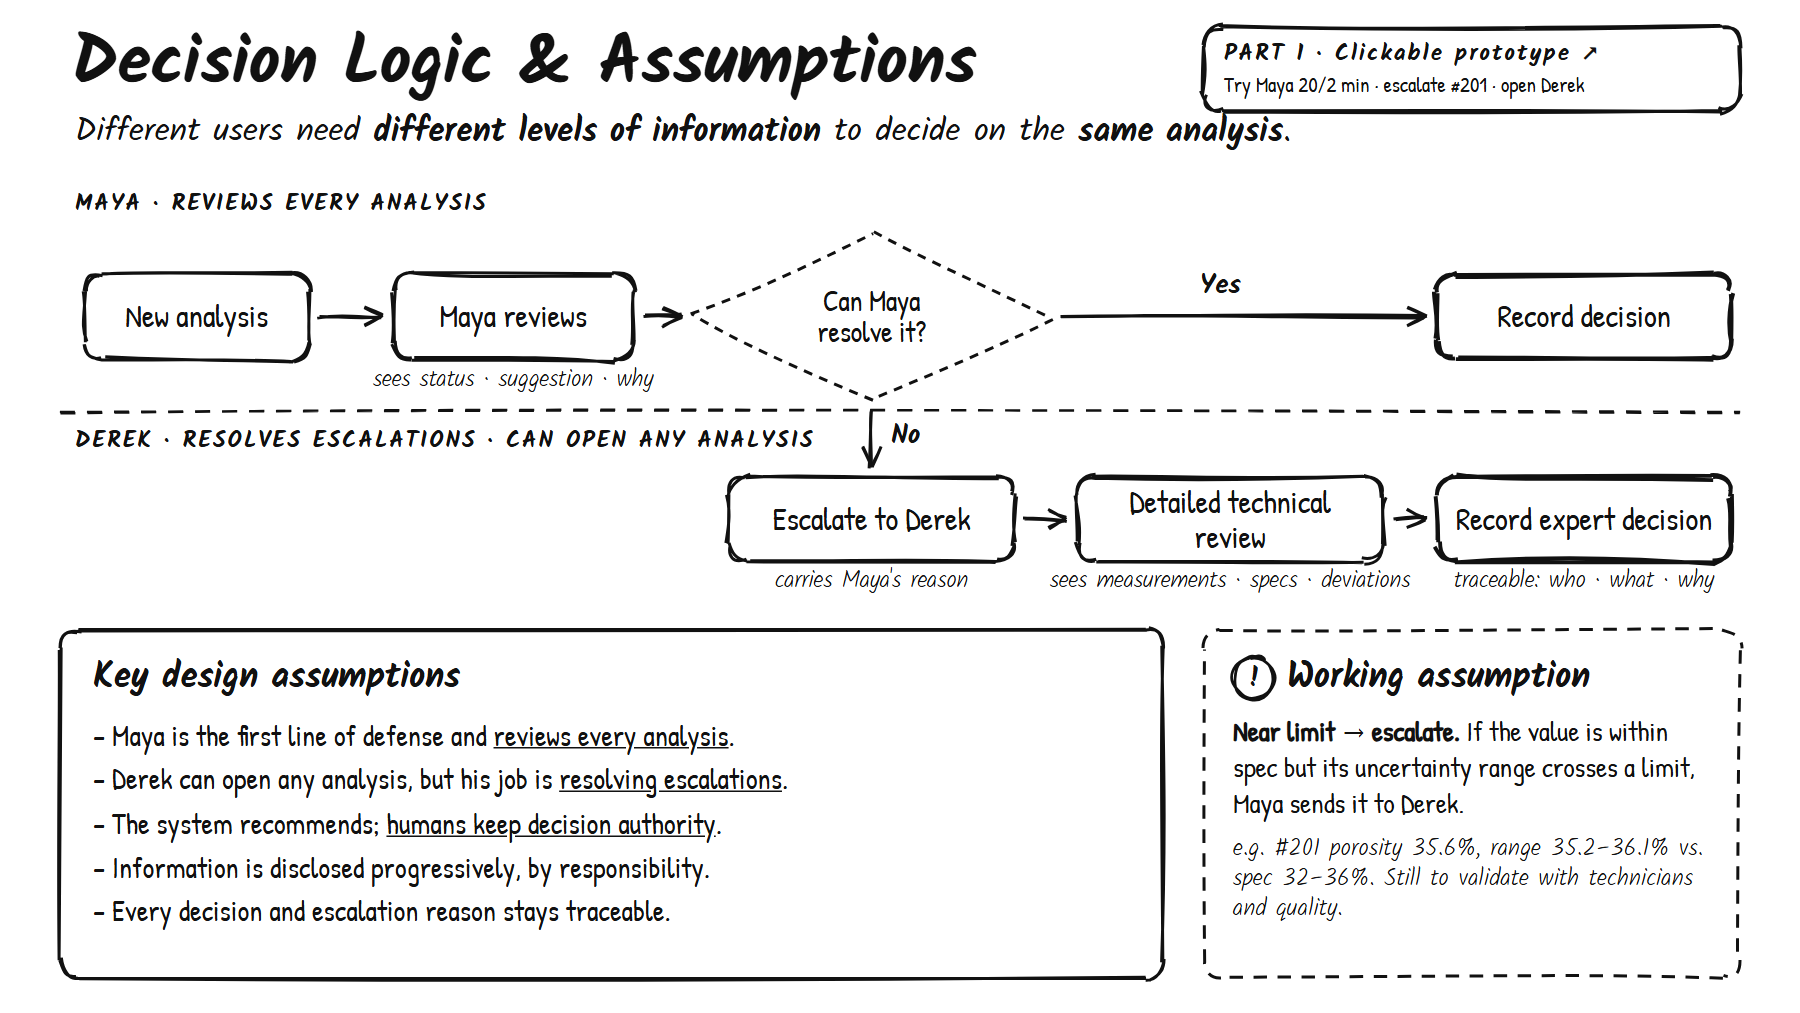
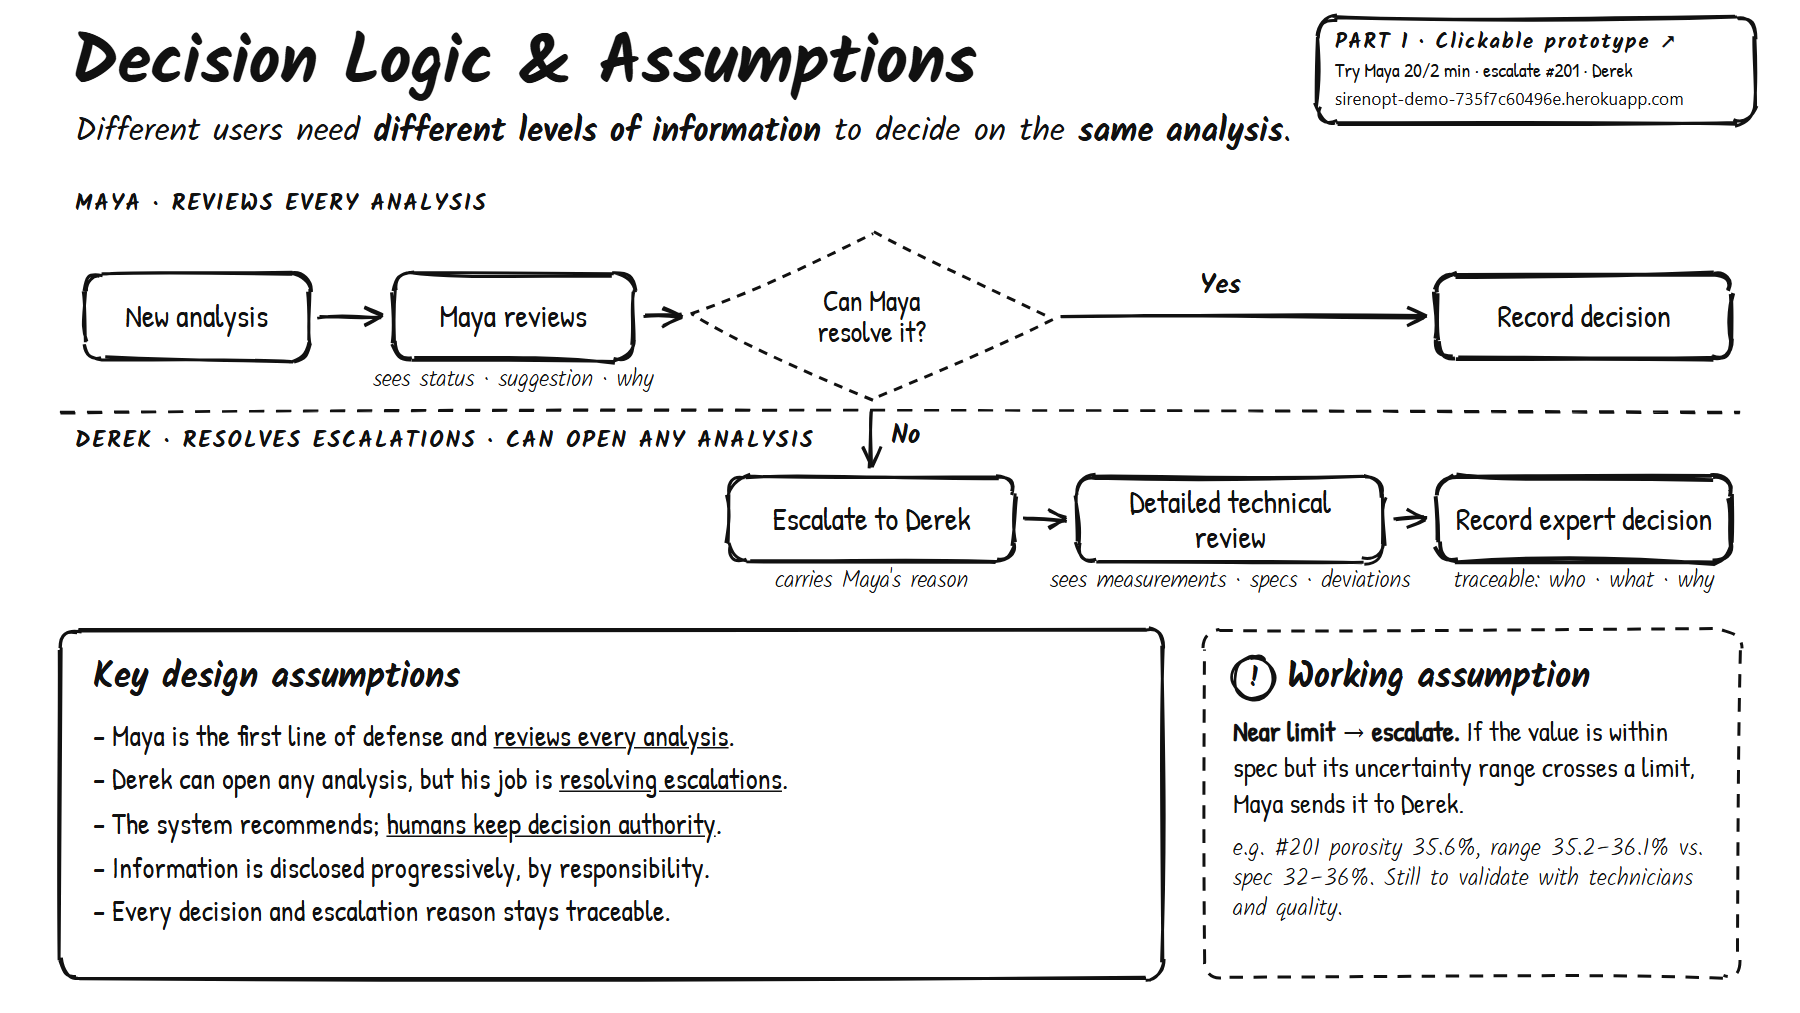
Move accessibility menu to top bar; add prototype URL to every deck page; fix SumatraPDF compatibility

Changed region(s): [[0.6533, 0.0, 0.9956, 0.1224]]

diff --git a/presentation/deck.html b/presentation/deck.html
@@ -53,6 +53,7 @@
   .section { left: 940px; top: 20px; width: 220px; text-align: right; font-family: 'Kalam', 'Segoe UI', sans-serif; font-weight: 700; font-size: 15px; letter-spacing: 2.5px; }
   .proto { left: 940px; top: 42px; width: 220px; text-align: right; font-family: 'Kalam', 'Segoe UI', sans-serif; font-weight: 300; font-size: 13px; color: #555; }
   .proto-banner { display: block; z-index: 2; }
+  .url { left: 700px; top: 42px; width: 460px; text-align: right; font-family: 'Segoe UI', sans-serif; font-size: 12.5px; color: #333; text-decoration: none; }
 
   .qrow { display: grid; grid-template-columns: 40px 460px 1fr; align-items: center; gap: 0 12px; height: 82px; }
   .qa { font-family: 'Patrick Hand', 'Segoe UI', sans-serif; font-size: 21px; line-height: 1.2; }
@@ -84,9 +85,10 @@
 <section class="slide" id="s1">
   <h1 class="title">Decision Logic &amp; Assumptions</h1>
   <p class="sub">Different users need <b>different levels of information</b> to decide on the <b>same analysis</b>.</p>
-  <a class="proto-banner" href="https://sirenopt-demo-735f7c60496e.herokuapp.com/" data-sk="rbox" style="left:802px;top:18px;width:358px;height:56px;padding:6px 14px;text-decoration:none;color:#111">
-    <div class="hand b" style="font-size:15px;letter-spacing:1.5px">PART 1 · Clickable prototype ↗</div>
-    <div class="ui" style="font-size:14px;line-height:1.2">Try Maya 20/2 min · escalate #201 · open Derek</div>
+  <a class="proto-banner" href="https://sirenopt-demo-735f7c60496e.herokuapp.com/" data-sk="rbox" style="left:878px;top:12px;width:292px;height:70px;padding:5px 12px;text-decoration:none;color:#111">
+    <div class="hand b" style="font-size:14px;letter-spacing:1.2px">PART 1 · Clickable prototype ↗</div>
+    <div class="ui" style="font-size:13px;line-height:1.2">Try Maya 20/2 min · escalate #201 · Derek</div>
+    <div style="font-family:'Segoe UI',sans-serif;font-size:11.5px;margin-top:3px">sirenopt-demo-735f7c60496e.herokuapp.com</div>
   </a>
 
   <div class="lane" style="left:50px;top:124px">MAYA · REVIEWS EVERY ANALYSIS</div>
@@ -227,7 +229,7 @@
 
   <div id="m-detail" data-sk="rbox" style="left:56px;top:470px;width:668px;height:110px;padding:8px 14px">
     <div class="row"><span class="hand b" style="font-size:20px">#201 detail</span><span class="ui">Awaiting decision · Suggested: Send to engineer</span></div>
-    <div class="ui" style="font-size:16px;margin-top:4px">Porosity near limit. Spec under each value. Three actions: Accept · Rework · Engineer.</div>
+    <div class="ui" style="font-size:16px;margin-top:4px">Porosity near limit. Spec under each value.</div>
     <div id="m-ctrl" class="btn dark" data-sk="dark" style="position:absolute;left:420px;top:62px;width:220px;height:34px;font-size:15px">Send to engineer</div>
   </div>
 
@@ -359,7 +361,7 @@
   <div id="bar-sr" data-sk="specbar" data-vmin="0.15" data-vmax="0.48" data-min="0.20" data-max="0.35" data-lo="0.275" data-hi="0.295" data-pt="0.29" data-fmt="2" style="left:424px;top:430px;width:270px;height:52px"></div>
 
   <div class="ui" style="left:712px;top:292px;width:132px;font-size:16px;line-height:1.2">
-    <div id="d-spec1" style="height:70px">spec 14.5–15.5<br>range 15.46–15.70<br><b id="d-dev" class="hand" style="font-size:16px">↑ +0.10 over · Second look</b></div>
+    <div id="d-spec1" style="height:70px">spec 14.5–15.5<br>range 15.46–15.70<br><b id="d-dev" class="hand" style="font-size:16px">↑ +0.10 over limit</b></div>
     <div id="d-spec2" style="height:70px">spec 32–36<br>range 33.7–34.2<br><span class="hand" style="font-size:16px">In spec</span></div>
     <div id="d-spec3" style="height:70px">spec 0.20–0.35<br>range 0.28–0.30<br><span class="hand" style="font-size:16px">In spec</span></div>
   </div>
@@ -639,6 +641,16 @@
 
   const INK = '#111'
   let seed = 7
+
+  const PROTO = 'https://sirenopt-demo-735f7c60496e.herokuapp.com/'
+  for (const slide of document.querySelectorAll('.slide')) {
+    if (slide.querySelector('.proto-banner')) continue
+    const a = document.createElement('a')
+    a.className = 'url'
+    a.href = PROTO
+    a.textContent = `Prototype: ${PROTO.replace(/^https:\/\//, '').replace(/\/$/, '')}`
+    slide.appendChild(a)
+  }
 
   function rr(x, y, w, h, r) {
     r = Math.min(r, w / 2, h / 2)

diff --git a/src/App.jsx b/src/App.jsx
@@ -1,4 +1,5 @@
 import { useCallback, useEffect, useState } from 'react'
+import AccessibilityMenu from './components/AccessibilityMenu'
 import DerekView from './components/DerekView'
 import MayaView from './components/MayaView'
 import {
@@ -196,6 +197,16 @@ export default function App() {
           <p className="hidden text-sm text-muted sm:block">
             {role === 'maya' ? 'Batch decisions' : 'Engineering escalations'}
           </p>
+          <div className="ml-auto">
+            <AccessibilityMenu
+              largeText={display.largeText}
+              highContrast={display.highContrast}
+              onToggleLargeText={() => setDisplay((d) => ({ ...d, largeText: !d.largeText }))}
+              onToggleHighContrast={() =>
+                setDisplay((d) => ({ ...d, highContrast: !d.highContrast }))
+              }
+            />
+          </div>
         </div>
       </nav>
 
@@ -211,12 +222,6 @@ export default function App() {
           onEscalate={handleEscalate}
           onReopen={handleMayaReopen}
           statusMessage={statusMessage}
-          largeText={display.largeText}
-          highContrast={display.highContrast}
-          onToggleLargeText={() => setDisplay((d) => ({ ...d, largeText: !d.largeText }))}
-          onToggleHighContrast={() =>
-            setDisplay((d) => ({ ...d, highContrast: !d.highContrast }))
-          }
         />
       ) : (
         <DerekView
@@ -231,12 +236,6 @@ export default function App() {
           onRecordEvidence={handleRecordEvidence}
           onReopen={handleDerekReopen}
           statusMessage={statusMessage}
-          largeText={display.largeText}
-          highContrast={display.highContrast}
-          onToggleLargeText={() => setDisplay((d) => ({ ...d, largeText: !d.largeText }))}
-          onToggleHighContrast={() =>
-            setDisplay((d) => ({ ...d, highContrast: !d.highContrast }))
-          }
         />
       )}
     </div>

diff --git a/src/components/MayaView.jsx b/src/components/MayaView.jsx
@@ -20,7 +20,6 @@ import {
   operatorReasonDisplay,
   summarizeCases,
 } from '../data'
-import AccessibilityMenu from './AccessibilityMenu'
 import EscalationSheet from './EscalationSheet'
 import MayaQuickView from './MayaQuickView'
 import OverrideSheet from './OverrideSheet'
@@ -547,10 +546,6 @@ export default function MayaView({
   onEscalate,
   onReopen,
   statusMessage,
-  largeText,
-  highContrast,
-  onToggleLargeText,
-  onToggleHighContrast,
 }) {
   const counts = summarizeCases(samples, cases)
   const pending = samples.filter((s) => isPendingState(getCase(cases, s.id).state))
@@ -706,12 +701,6 @@ export default function MayaView({
               20 min
             </button>
           </div>
-          <AccessibilityMenu
-            largeText={largeText}
-            highContrast={highContrast}
-            onToggleLargeText={onToggleLargeText}
-            onToggleHighContrast={onToggleHighContrast}
-          />
         </div>
       </header>
 

diff --git a/src/components/DerekView.jsx b/src/components/DerekView.jsx
@@ -23,7 +23,6 @@ import {
   systemPromptedProperty,
   waitingLabel,
 } from '../data'
-import AccessibilityMenu from './AccessibilityMenu'
 import SpecBar, { ChartLegend } from './SpecBar'
 
 function RescanRuler({ sample, propertyKey }) {
@@ -640,10 +639,6 @@ export default function DerekView({
   onRecordEvidence,
   onReopen,
   statusMessage,
-  largeText,
-  highContrast,
-  onToggleLargeText,
-  onToggleHighContrast,
 }) {
   const escalations = listEscalations(samples, cases)
   const openMatch = escalations.some((item) => item.sample.id === selectedId)
@@ -672,12 +667,6 @@ export default function DerekView({
             Batch {BATCH.id} · {BATCH.product}
           </p>
         </div>
-        <AccessibilityMenu
-          largeText={largeText}
-          highContrast={highContrast}
-          onToggleLargeText={onToggleLargeText}
-          onToggleHighContrast={onToggleHighContrast}
-        />
       </header>
 
       <div

diff --git a/presentation/build.py b/presentation/build.py
@@ -1,5 +1,6 @@
 from pathlib import Path
 
+import fitz
 from playwright.sync_api import sync_playwright
 
 HERE = Path(__file__).parent
@@ -19,5 +20,12 @@ with sync_playwright() as p:
     page.pdf(path=str(OUT_PDF), width="1200px", height="675px", print_background=True,
              margin={"top": "0", "right": "0", "bottom": "0", "left": "0"})
     browser.close()
+
+# SumatraPDF shows Chrome's raw PDF output as a blank page; a MuPDF rewrite fixes it.
+doc = fitz.open(OUT_PDF)
+tmp = OUT_PDF.with_suffix(".tmp.pdf")
+doc.save(tmp, garbage=4, deflate=True, clean=True)
+doc.close()
+tmp.replace(OUT_PDF)
 
 print(OUT_PDF)
